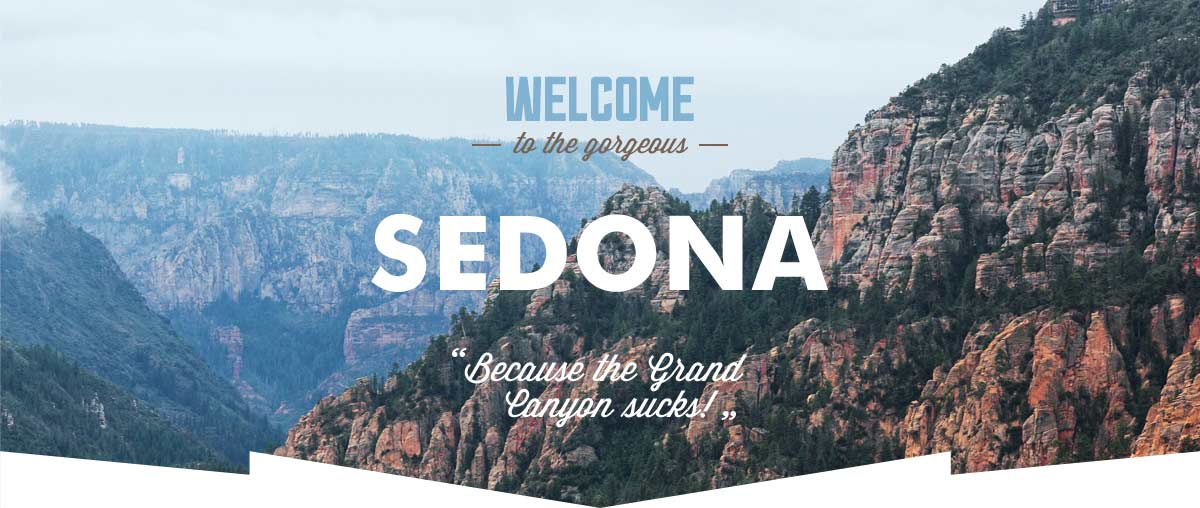
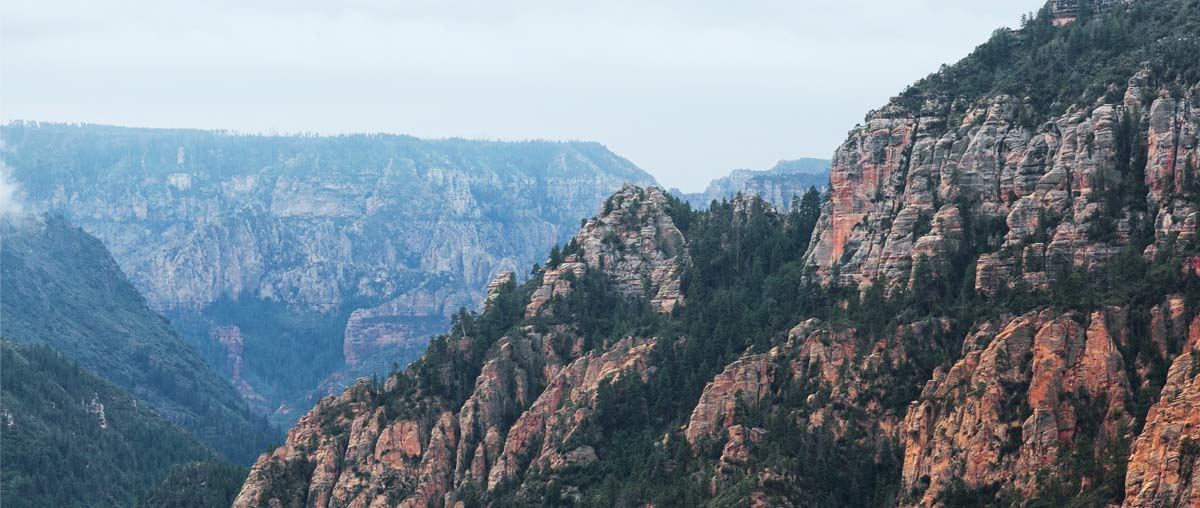
разбила промо -изображения на 3 картинки

diff --git a/index.html b/index.html
@@ -31,7 +31,7 @@
 		</header>
 		<main>
 			<div class="promo">
-			 <img src="img/promo.jpg" width="1200" height="508" alt="Промо"> 
+			 <img src="img/promo.png" width="458" height="352" alt="Промо"> 
 			</div>
 			<div class="title">
 			<h1>Cедона небольшой городок в Аризоне, засдуживающий большего</h1>

diff --git a/css/style.css b/css/style.css
@@ -58,8 +58,14 @@ h2 {
 .promo {
 	min-height: 508px;
 	width: 1200px;
-	/* Для сетки */
-	outline: 3px dashed #d21e37;
+  background-image: url("img/promo.jpg");
+}
+
+.promo-text {
+	display: block;
+	width: 458px;
+	margin: 0 auto;
+
 }
 
 .title {
